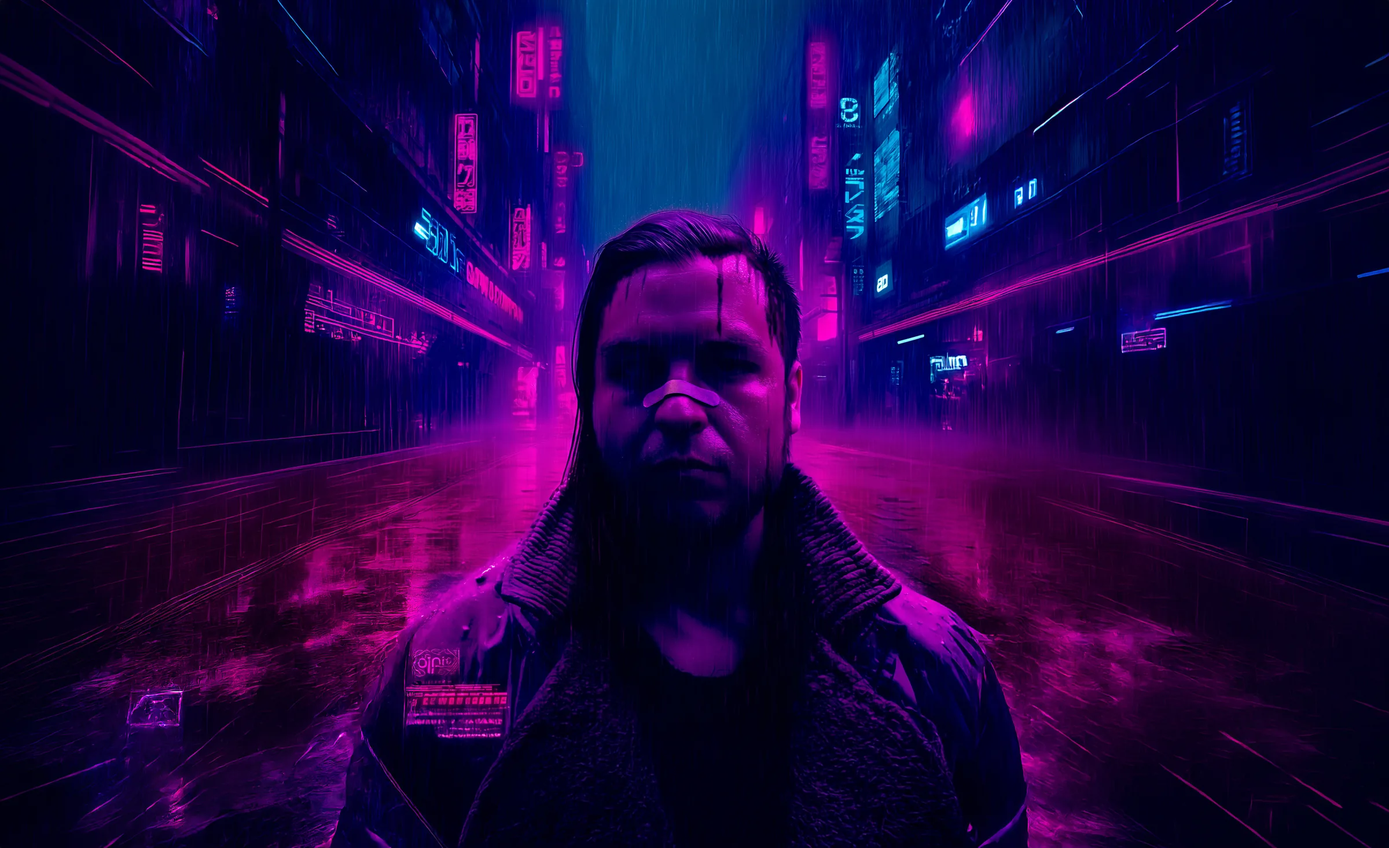
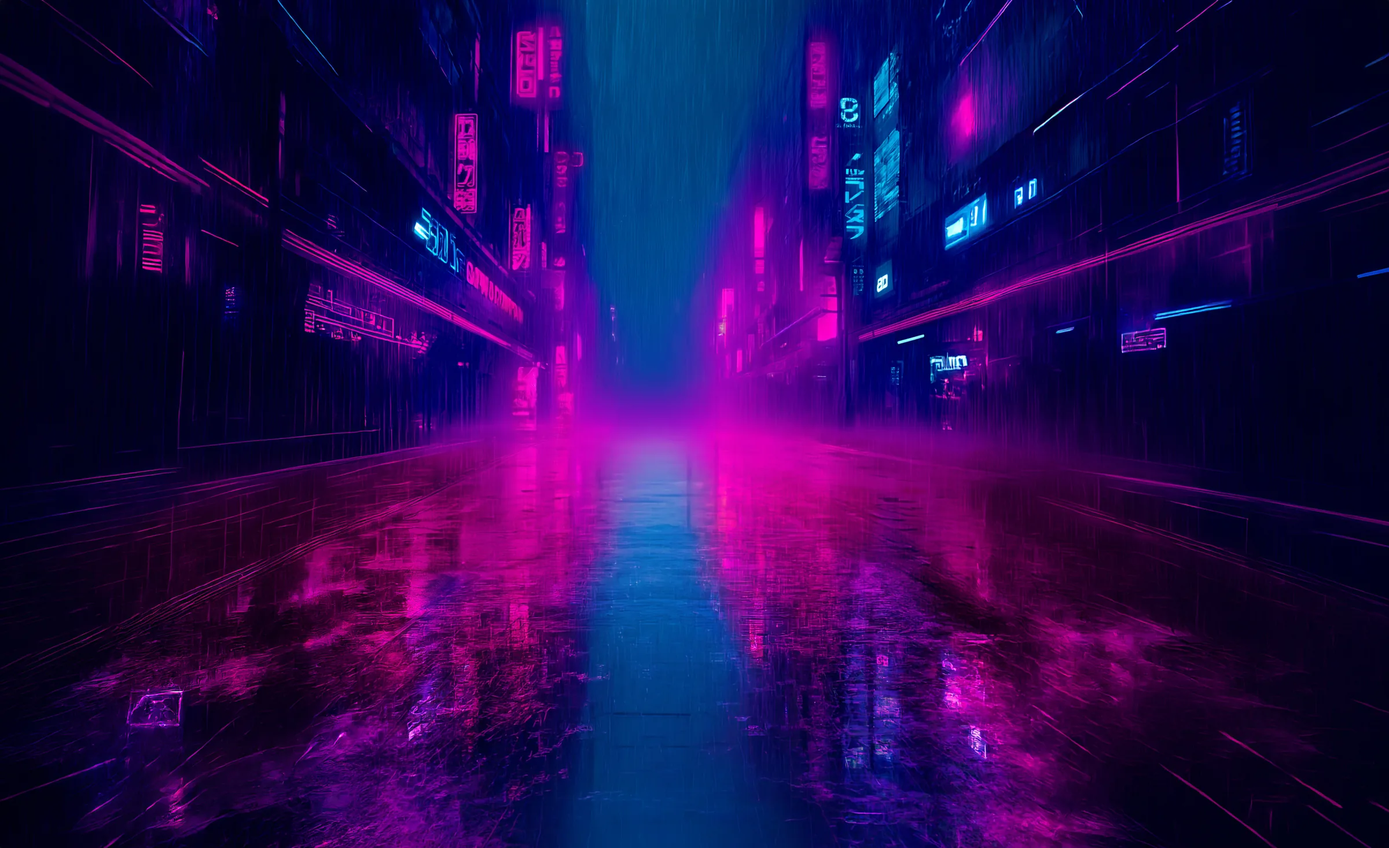
tweak(404): fondo con el shader de dither del preloader + glitch periódico
Reemplaza el fondo estático (CSS filter) del 404 por el mismo tratamiento
"pantalla de fósforo" de src/gl/preloader.js — grid de celdas ASCII/CRT,
tinte teal, luminancia — pero en WebGL vanilla (este archivo se sirve tal
cual en GitHub Pages, no pasa por Vite/OGL). Usa la imagen de solo-fondo del
parallax del hero (sin personaje, pedido de Charlie) y queda más oscuro que
el preloader. Dispara el mismo glitch "cambio de canal" (bandas + aberración
cromática) cada 2.4-4.8s, irregular (WCAG 2.3.1) — verificado por consola.
Sin WebGL o con reduced-motion, cae al fallback CSS estático anterior.

Changed region(s): [[0.2188, 0.2457, 0.75, 1.0]]

diff --git a/public/404.html b/public/404.html
@@ -70,11 +70,19 @@
         padding: 1.5rem;
         overflow: hidden;
       }
+      /* fallback CSS (sin WebGL): imagen plana oscurecida. #glbg la tapa encima si el canvas arranca. */
       .bg {
         position: fixed;
         inset: 0;
         background: url('/portfolio/404-assets/bg.webp') center 20% / cover no-repeat;
-        filter: grayscale(70%) brightness(0.35) contrast(1.1);
+        filter: grayscale(70%) brightness(0.3) contrast(1.1);
+        z-index: 0;
+      }
+      #glbg {
+        position: fixed;
+        inset: 0;
+        width: 100%;
+        height: 100%;
         z-index: 0;
       }
       /* barrido de scanlines — estático, sin parpadeo (WCAG 2.3.1: nada de destellos) */
@@ -140,6 +148,7 @@
   </head>
   <body>
     <div class="bg" aria-hidden="true"></div>
+    <canvas id="glbg" aria-hidden="true"></canvas>
     <div class="scan" aria-hidden="true"></div>
     <div class="content">
       <h1>404</h1>
@@ -150,5 +159,156 @@
         <a href="/portfolio/en/">‹ Home</a>
       </nav>
     </div>
+    <script>
+      // Fondo con el mismo tratamiento "pantalla de fósforo" del preloader (src/gl/preloader.js:
+      // grid de celdas ASCII/CRT + tinte teal + luminancia), pero SIN el ojo ni el reveal por
+      // progreso (siempre a la vista) y bastante más oscuro (pedido de Charlie, "no me molesta que
+      // quede más oscuro que el preloader"). Cada tanto dispara el mismo glitch "cambio de canal"
+      // (bandas + aberración cromática) que usa el router al transicionar — irregular, corto, WCAG
+      // 2.3.1 (nunca más de 1 pulso cada pocos segundos). Vanilla WebGL: este archivo se sirve tal
+      // cual (no pasa por Vite), así que no puede importar OGL ni el resto del bundle.
+      ;(function () {
+        var reduced = matchMedia('(prefers-reduced-motion: reduce)').matches
+        var canvas = document.getElementById('glbg')
+        var gl = canvas.getContext('webgl') || canvas.getContext('experimental-webgl')
+        if (!gl) return // sin WebGL: se queda el fallback .bg (CSS)
+
+        var vertexSrc = 'attribute vec2 position;' + 'varying vec2 vUv;' + 'void main() {' + '  vUv = position * 0.5 + 0.5;' + '  gl_Position = vec4(position, 0.0, 1.0);' + '}'
+
+        // mismo algoritmo que preloader.js (grid de celdas + soft blob + tinte fósforo), sin
+        // uProgress (siempre revelado) y sin el ojo. uGlitch pulsa periódicamente desde JS.
+        var fragmentSrc =
+          'precision highp float;' +
+          'uniform sampler2D uScene;' +
+          'uniform vec2 uResolution;' +
+          'uniform vec2 uImageSize;' +
+          'uniform float uTime;' +
+          'uniform float uGlitch;' +
+          'varying vec2 vUv;' +
+          'float hash(vec2 p) { return fract(sin(dot(p, vec2(41.31, 289.17))) * 43758.5453); }' +
+          'void main() {' +
+          '  vec3 voidc = vec3(0.0118, 0.0157, 0.0157);' +
+          '  float ra = uResolution.x / uResolution.y;' +
+          '  float ia = uImageSize.x / uImageSize.y;' +
+          '  vec2 scale = ra > ia ? vec2(ia / ra, 1.0) : vec2(1.0, ra / ia);' +
+          '  vec2 cuv = (vUv - 0.5) / scale + 0.5;' +
+          '  float g = uGlitch;' +
+          '  if (g > 0.001) {' +
+          '    float band = floor(cuv.y * 22.0);' +
+          '    cuv.x += (hash(vec2(band, floor(uTime * 16.0))) - 0.5) * 0.08 * g;' +
+          '  }' +
+          '  vec3 col = voidc;' +
+          '  if (cuv.x >= 0.0 && cuv.x <= 1.0 && cuv.y >= 0.0 && cuv.y <= 1.0) {' +
+          '    vec3 W = vec3(0.299, 0.587, 0.114);' +
+          '    vec2 CELLS = vec2(150.0, 190.0);' +
+          '    vec2 cf = cuv * CELLS;' +
+          '    vec2 cell = floor(cf);' +
+          '    vec2 cfrac = fract(cf) - 0.5;' +
+          '    vec2 quv = (cell + 0.5) / CELLS;' +
+          '    vec3 lc;' +
+          '    if (g > 0.001) {' +
+          '      float ca = 0.006 * g;' +
+          '      lc = vec3(' +
+          '        dot(texture2D(uScene, quv + vec2(ca, 0.0)).rgb, W),' +
+          '        dot(texture2D(uScene, quv).rgb, W),' +
+          '        dot(texture2D(uScene, quv - vec2(ca, 0.0)).rgb, W)' +
+          '      );' +
+          '    } else {' +
+          '      lc = vec3(dot(texture2D(uScene, quv).rgb, W));' +
+          '    }' +
+          '    float soft = 0.42 + 0.58 * smoothstep(0.58, 0.12, max(abs(cfrac.x) * 0.82, abs(cfrac.y) * 1.5));' +
+          '    vec3 tint = vec3(0.58, 0.96, 0.90);' +
+          '    col = tint * pow(lc, vec3(0.85)) * 0.8 * soft;' + // más oscuro que el preloader (ahí *1.38)
+          '    if (g > 0.001) col += (hash(cell + uTime) - 0.5) * 0.3 * g;' +
+          '    float edge = smoothstep(0.0, 0.03, cuv.x) * smoothstep(1.0, 0.97, cuv.x) *' +
+          '                 smoothstep(0.0, 0.03, cuv.y) * smoothstep(1.0, 0.97, cuv.y);' +
+          '    col = mix(voidc, col, edge);' +
+          '  }' +
+          '  gl_FragColor = vec4(col, 1.0);' +
+          '}'
+
+        function compile(type, src) {
+          var s = gl.createShader(type)
+          gl.shaderSource(s, src)
+          gl.compileShader(s)
+          return s
+        }
+        var program = gl.createProgram()
+        gl.attachShader(program, compile(gl.VERTEX_SHADER, vertexSrc))
+        gl.attachShader(program, compile(gl.FRAGMENT_SHADER, fragmentSrc))
+        gl.linkProgram(program)
+        if (!gl.getProgramParameter(program, gl.LINK_STATUS)) return // fallback .bg
+        gl.useProgram(program)
+
+        var buf = gl.createBuffer()
+        gl.bindBuffer(gl.ARRAY_BUFFER, buf)
+        // triángulo único que cubre toda la pantalla (evita index buffer para un quad)
+        gl.bufferData(gl.ARRAY_BUFFER, new Float32Array([-1, -1, 3, -1, -1, 3]), gl.STATIC_DRAW)
+        var posLoc = gl.getAttribLocation(program, 'position')
+        gl.enableVertexAttribArray(posLoc)
+        gl.vertexAttribPointer(posLoc, 2, gl.FLOAT, false, 0, 0)
+
+        var uResolution = gl.getUniformLocation(program, 'uResolution')
+        var uImageSize = gl.getUniformLocation(program, 'uImageSize')
+        var uTime = gl.getUniformLocation(program, 'uTime')
+        var uGlitch = gl.getUniformLocation(program, 'uGlitch')
+
+        var tex = gl.createTexture()
+        gl.bindTexture(gl.TEXTURE_2D, tex)
+        gl.texParameteri(gl.TEXTURE_2D, gl.TEXTURE_WRAP_S, gl.CLAMP_TO_EDGE)
+        gl.texParameteri(gl.TEXTURE_2D, gl.TEXTURE_WRAP_T, gl.CLAMP_TO_EDGE)
+        gl.texParameteri(gl.TEXTURE_2D, gl.TEXTURE_MIN_FILTER, gl.LINEAR)
+        gl.texParameteri(gl.TEXTURE_2D, gl.TEXTURE_MAG_FILTER, gl.LINEAR)
+
+        function resize() {
+          var dpr = Math.min(window.devicePixelRatio || 1, 2)
+          canvas.width = window.innerWidth * dpr
+          canvas.height = window.innerHeight * dpr
+          gl.viewport(0, 0, canvas.width, canvas.height)
+          gl.uniform2f(uResolution, canvas.width, canvas.height)
+        }
+        window.addEventListener('resize', resize, { passive: true })
+
+        var img = new Image()
+        img.onload = function () {
+          gl.bindTexture(gl.TEXTURE_2D, tex)
+          gl.texImage2D(gl.TEXTURE_2D, 0, gl.RGBA, gl.RGBA, gl.UNSIGNED_BYTE, img)
+          gl.uniform2f(uImageSize, img.naturalWidth, img.naturalHeight)
+          resize()
+          draw()
+          var bgCss = document.querySelector('.bg')
+          if (bgCss) bgCss.style.display = 'none' // el canvas ya cubre el fondo
+          if (!reduced) requestAnimationFrame(loop)
+        }
+        img.src = '/portfolio/404-assets/bg.webp'
+
+        function draw() {
+          gl.clear(gl.COLOR_BUFFER_BIT)
+          gl.drawArrays(gl.TRIANGLES, 0, 3)
+        }
+
+        // glitch "cambio de canal" irregular — nunca más de 1 pulso cada pocos segundos (WCAG 2.3.1,
+        // misma cadencia que el destello del ojo en preloader.js: 2.4-4.8s entre eventos)
+        var glitch = 0
+        var nextBlip = 2.4 + Math.random() * 2.4
+        var t0 = performance.now()
+        var lastBlip = 0
+
+        function loop(now) {
+          var time = (now - t0) * 0.001
+          var sinceBlip = time - lastBlip
+          if (sinceBlip >= nextBlip) {
+            lastBlip = time
+            nextBlip = 2.4 + Math.random() * 2.4
+            glitch = 1
+          }
+          glitch = Math.max(0, glitch - 1 / 24) // decae en ~400ms a 60fps
+          gl.uniform1f(uTime, time)
+          gl.uniform1f(uGlitch, glitch)
+          draw()
+          requestAnimationFrame(loop)
+        }
+      })()
+    </script>
   </body>
 </html>
